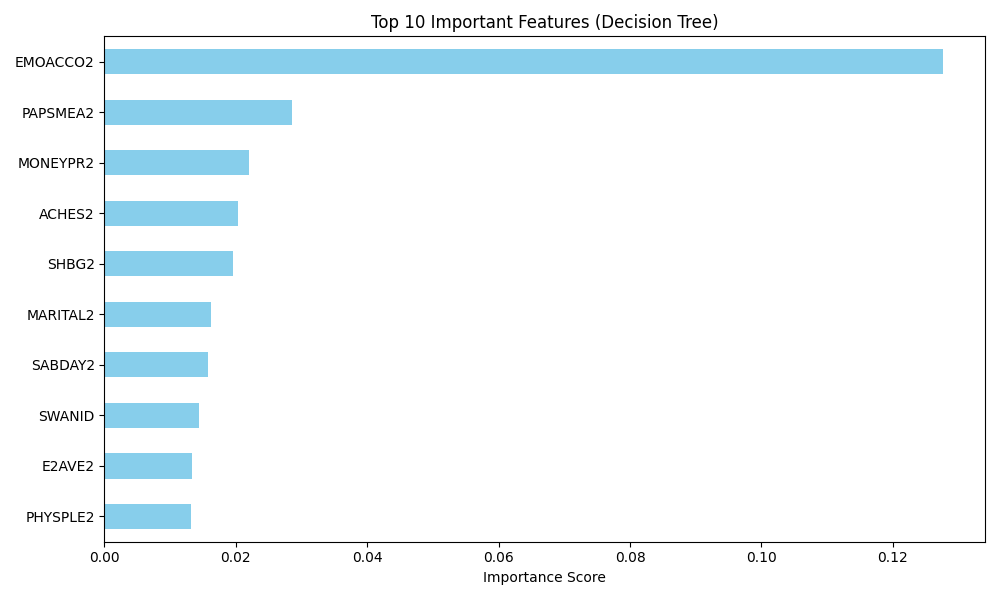
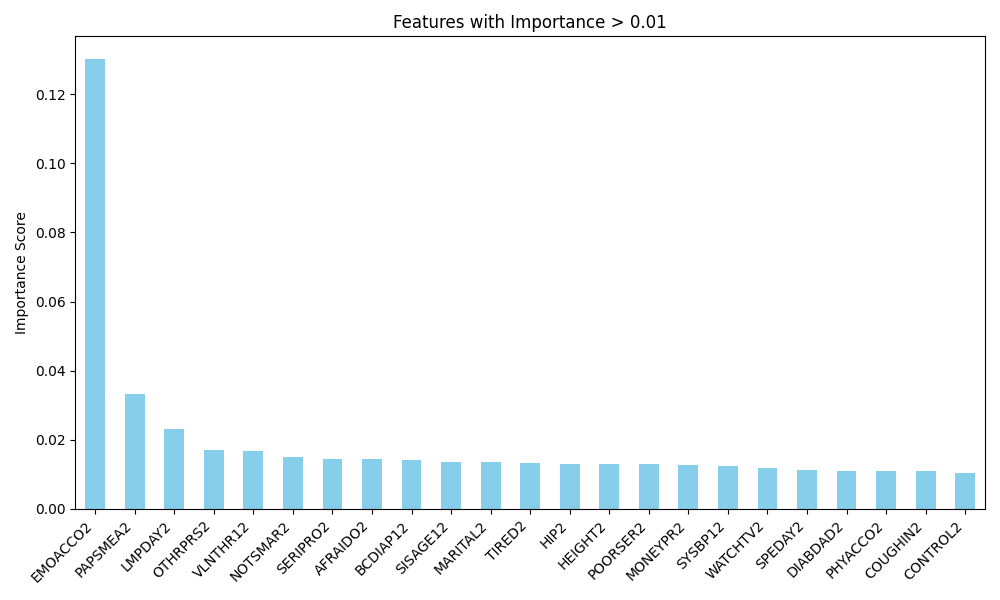
fixed PCA and decision tree

Changed region(s): [[0.0, 0.03, 0.992, 0.99]]

diff --git a/Evaluation/Decision_Tree.py b/Evaluation/Decision_Tree.py
@@ -16,7 +16,7 @@ def remove_high_cardinality_features(df, threshold=0.50):
 
 if __name__ == "__main__":
     # Load your encoded dataframe
-    df = pd.read_csv("data_mining/data/Processed_Data/study1_2_encoded.csv")  # or use df_encoded directly if already in memory
+    df = pd.read_csv("../data/Processed_Data/study1_2_encoded.csv")  # or use df_encoded directly if already in memory
 
     # Specify your response variable (change this to your actual column name)
     target_column = "HLTHSER2"
@@ -39,43 +39,76 @@ if __name__ == "__main__":
     importances = pd.Series(clf.feature_importances_, index=X.columns)
     important_features = importances[importances > 0.01].sort_values(ascending=False)
 
-    # dic = {"EMOACCO2":"Accomplished less past month due to emotional problem",
-    #        "PAPSMEA2":"Pap smear since last visit",
-    #        "MONEYPR2":"Money problems upsetting since last visit",
-    #        "ACHES2":"Back aches/pains past 2 weeks",
-    #        "SHBG2": "Sex hormone-binding globulin (nM)",
-    #        "MARITAL2":"Marital status",
-    #        "SABDAY2":"Self-administered-Part B Day",
-    #        "SWANID": "Respondent ID",
-    #        "E2AVE2":"Estradiol",
-    #        "PHYSPLE2":"Relationship with Partner is Physically Pleasurable"}
+    dic = {"EMOACCO2":"Accomplished less past month due to emotional problem",
+           "PAPSMEA2":"Pap smear since last visit",
+           "MONEYPR2":"Money problems upsetting since last visit",
+           "ACHES2":"Back aches/pains past 2 weeks",
+           "SHBG2": "Sex hormone-binding globulin (nM)",
+           "MARITAL2":"Marital status",
+           "SABDAY2":"Self-administered-Part B Day",
+           "SWANID": "Respondent ID",
+           "E2AVE2":"Estradiol",
+           "PHYSPLE2":"Relationship with Partner is Physically Pleasurable",
+            "LMPDAY2": "Last menstrual period day",
+            "MI2": "Body mass index",
+            "SYSBP12": "Systolic blood pressure (BP)",
+            "OTHRPRS2": "Biological Mother menopause symptoms",
+            "NOTSMAR2": "People think not as smart as others",
+            "BCDIAP12": "Paternal Aunt's age at breast cancer diagnosis",
+            "SERIPRO2": "Serious family problem upsetting since last visit",
+            "VLNTHR12": "Hours spent Volunteering",
+            "TIRED2" : "In the past 4 weeks, how often did you feel tired?",
+            "SISAGE12": "Sister 1 Age",
+            "HIP2": "Hip Circumference",
+            "POORSER2": "Received poorer service than others at restaurants/stores",
+            "DIABDAD2": "Dad has diabetes",
+            "CONTROL2": "Unable to control important things in your life",
+            "PHYACCO2": "Accomplished less due to physical pain",
+            "HEIGHT2": "Height",
+            "COUGHIN2": "Urinate when coughing",
+            "SPEDAY2": "Survey Completion Date",
+            "AFRAIDO2": "People act as if they are afraid of you",
+            "WATCHTV2": "Since your last visit did you watch TV"
+            }
     
     # Plot feature importances
-    plt.figure(figsize=(max(10, len(important_features) * 0.4), 6))
-    important_features.plot(kind='bar', color='skyblue')
+    # top_features = importances.head(5)
+    # mapped_labels = top_features.index.map(lambda x: dic.get(x, x))
+    # plt.figure(figsize=(max(10, len(important_features) * 0.4), 6))
 
-    plt.xticks(rotation=45, ha='right')
-    plt.title("Features with Importance > 0.01")
-    plt.ylabel("Importance Score")
+    # mapped_labels.plot(kind='bar', color='skyblue')
+
+    # plt.xticks(rotation=45, ha='right')
+    # plt.title("Features with Importance > 0.01")
+    # plt.ylabel("Importance Score")
+    # plt.tight_layout()
+
+    # Print to inspect
+    print("Top important features:\n", important_features)
+
+    # Select top 10 features
+    #top_features = importances.head(5)
+
+    # Convert to string in case feature names are not
+    important_features.index = important_features.index.astype(str)
+
+    # Replace codes with descriptive names where available
+    mapped_labels = important_features.index.map(lambda x: dic.get(x, x))
+
+    # Plot with descriptive labels
+    plt.clf()
+    plt.figure(figsize=(10, 6))
+    plt.barh(mapped_labels, important_features.values, color='skyblue')
+    plt.gca().invert_yaxis()
+    plt.title("Significant Features (Decision Tree)")
+    plt.xlabel("Importance Score")
     plt.tight_layout()
 
-    print(important_features)
-
-    # Map feature codes to descriptive questions
-    # top_features = importances.head(10)
-    # mapped_labels = top_features.index.to_series().map(dic).fillna(pd.Series(top_features.index, index=top_features.index))
-
-    # # Plot with descriptive labels
-    # plt.figure(figsize=(10, 6))
-    # plt.barh(mapped_labels, top_features.values, color='skyblue')
-    # plt.gca().invert_yaxis()
-    # plt.title("Top 10 Important Features (Decision Tree)")
-    # plt.xlabel("Importance Score")
-    # plt.tight_layout()
-    
-    scree_path = "data_mining/Evaluation/plots/Decision_Tree_Results.png"
+    # Save the plot
+    scree_path = "./plots/Decision_Tree_Results_5.png"
     plt.savefig(scree_path)
     plt.close()
+
 
 
 

diff --git a/EDA/Distributions_Study2.py b/EDA/Distributions_Study2.py
@@ -3,7 +3,7 @@ import os
 import json
 import matplotlib.pyplot as plt
 
-def plot_and_save_all_distributions(df_encoded, value_to_int, save_dir="data_mining/EDA/Study2/", max_unique=50):
+def plot_and_save_all_distributions(df_encoded, value_to_int, save_dir="data_mining/EDA/SWAN2_Distributions/", max_unique=50):
     colors = ['#ec4899', '#fbcfe8', '#d1d5db', '#6b7280', '#000000']
     int_to_value = {v: k for k, v in value_to_int.items()}
     os.makedirs(save_dir, exist_ok=True)
@@ -35,6 +35,52 @@ def plot_and_save_all_distributions(df_encoded, value_to_int, save_dir="data_min
         filename = f"{col_name}.png".replace("/", "_")
         plt.savefig(os.path.join(save_dir, filename))
         plt.close('all')
+
+def plot_race_and_income(save_dir="data_mining/EDA/SWAN2_Distributions/"):
+    # code to save distributions of Race and Income.
+    # these values were manually extracted from data_mining/data/SWAN2_Codebook_Stats.pdf
+    race = {48.5: "Caucasian/White Non Hispanic", 27: "Black/African American", 
+            8.5: "Chinese/Chinese American", 6.5: "Hispanic", 9.6: "Japanese/Japanese American"}
+    
+    income_level = {10.5: "Less than $19,999", 27.3: "$20,000 to $49,999", 37.1:"$50,000 to $99,999", 19: "$100,000 or More"}
+    os.makedirs(save_dir, exist_ok=True)
+    colors = ['#ec4899', '#fbcfe8', '#d1d5db', '#6b7280', '#4b5563'] 
+
+     # Plot race distribution
+    plt.figure(figsize=(10, 8))
+    wedges, texts, autotexts = plt.pie(
+        race.keys(), 
+        autopct='%1.1f%%', 
+        startangle=140, 
+        colors=colors, 
+        textprops=dict(color="white")
+    )
+    plt.title('Race Distribution')
+    plt.legend(wedges, race.values(), title="Race", loc="center left", bbox_to_anchor=(1, 0, 0.5, 1))
+    plt.axis('equal')
+    plt.tight_layout()
+    plt.savefig(os.path.join(save_dir, 'race_distribution.png'))
+    plt.close()
+
+    # Plot income distribution
+    plt.figure(figsize=(10, 8))
+    wedges, texts, autotexts = plt.pie(
+        income_level.keys(), 
+        autopct='%1.1f%%', 
+        startangle=140, 
+        colors=colors[:4], 
+        textprops=dict(color="white")
+    )
+    plt.title('Income Level Distribution')
+    plt.legend(wedges, income_level.values(), title="Income", loc="center left", bbox_to_anchor=(1, 0, 0.5, 1))
+    plt.axis('equal')
+    plt.tight_layout()
+    plt.savefig(os.path.join(save_dir, 'income_distribution.png'))
+    plt.close()
+
+
+
+
 
 
 def process_data(df1, df2, name):
@@ -72,16 +118,16 @@ def process_data(df1, df2, name):
     return df_encoded, value_to_int
 
 
-
-
 if __name__ == "__main__":
+    plot_race_and_income()
+
+    """
     # Load TSV file (including header as first row)
     df1 = pd.read_csv('data_mining//data/Raw_Data/SWAN1.tsv', sep='\t', dtype=str, header=None, on_bad_lines='skip')
     df2 = pd.read_csv('data_mining/data/Raw_Data/SWAN2.tsv', sep='\t', dtype=str, header=None)
 
     df1, value_to_int1 = process_data(df1, df2, 'study1_2_encoded.csv') 
 
-    """
     df = pd.read_csv('data_mining/data/Raw_Data/SWAN2.tsv', sep='\t', dtype=str, header=None)
     df, value_to_int = process_data(df, 'study2_encoded.csv') 
     plot_and_save_all_distributions(df, value_to_int)

diff --git a/Evaluation/PCA.py b/Evaluation/PCA.py
@@ -35,7 +35,7 @@ def run_pca_and_save_with_scree(df_encoded, save_dir="data_mining/Evaluation/plo
 
     # Save scree plot
     os.makedirs(save_dir, exist_ok=True)
-    scree_path = os.path.join(save_dir, "scree_plot_2.png")
+    scree_path = os.path.join(save_dir, "scree_plot.png")
     plt.savefig(scree_path)
     plt.close()
     print(f"Scree plot saved to {scree_path}")

diff --git a/Evaluation/README.md b/Evaluation/README.md
@@ -77,6 +77,16 @@ CONTROL2    0.010447
 
     OTHRPRS2 - Did your biological mother have any symptoms such as hot flashes, irregular or heavy periods, sleep problems or mood changes or problems associated with stopping her menstruation
 
+    VLNTHR12 - How many hours a week do you spend doing volunteer work? 
+
+    TIRED2 - In the past 4 weeks, how often did you feel tired? 
+
+    SISAGE12 - How old is your first sister/how old was she when she died?
+
+    HIP2 - Hip Circumference
+
+    AFRAIDO2 - People act as if they are afraid of you. In your day-to-day life have you had the following experiences:
+
     NOTSMAR2: People think not as smart as others. In your day-to-day life have you had the following experiences:
 
     BCDIAP12 - how old was your paternal aunt when she was diagnosed with breat cancer
